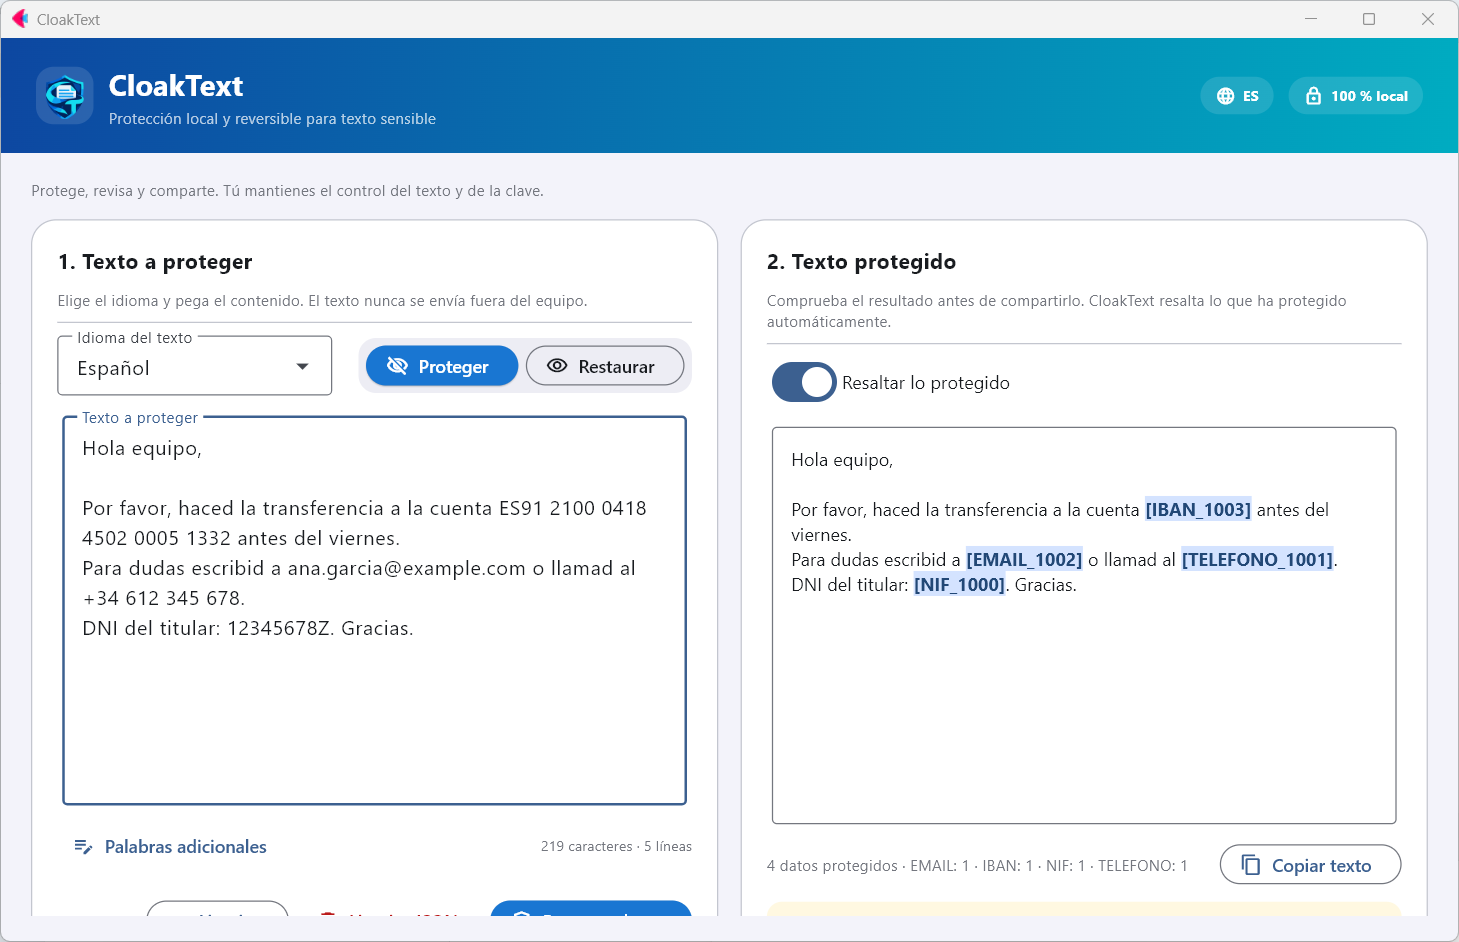
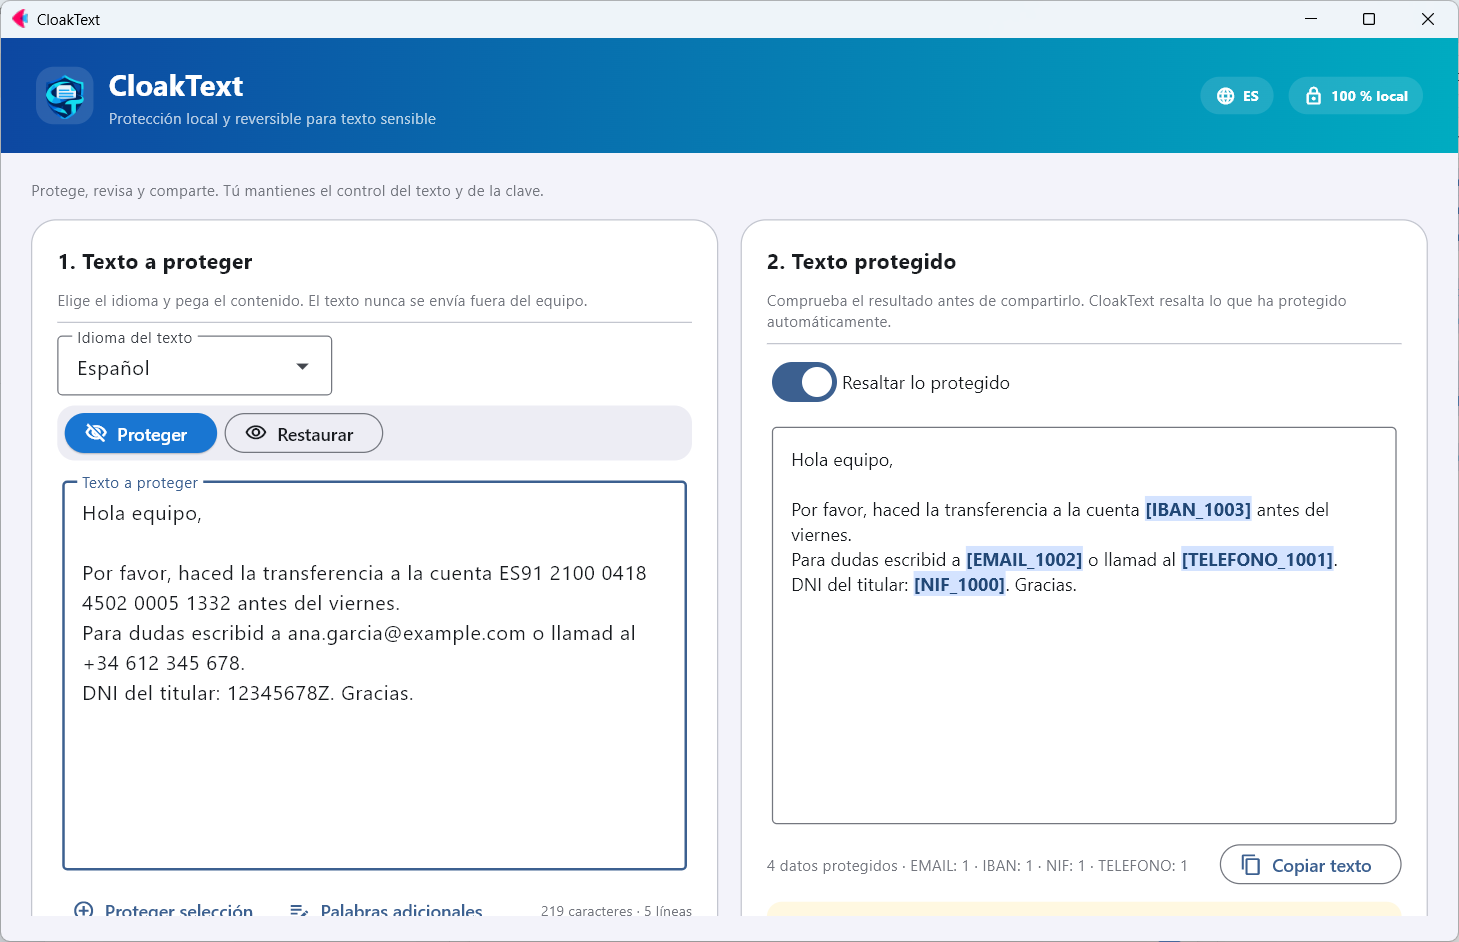
fix(ui): wrap rows so long translations are not clipped; refresh screenshots

diff --git a/main.py b/main.py
@@ -437,42 +437,51 @@ class CloakTextApp:
             tr("card.input_sub"),
             ft.Column(
                 controls=[
+                    # Rows wrap instead of clipping: translated labels (German, French...)
+                    # are longer than the English ones.
                     ft.Row(
-                        controls=[self.dd_language, ft.Container(expand=True), mode_selector],
+                        controls=[self.dd_language, mode_selector],
+                        alignment=ft.MainAxisAlignment.SPACE_BETWEEN,
                         vertical_alignment=ft.CrossAxisAlignment.CENTER,
+                        wrap=True,
+                        run_spacing=8,
                     ),
                     self.txt_input,
                     ft.Row(
                         controls=[
-                            self.btn_selection,
-                            self.btn_terms,
-                            ft.Container(expand=True),
+                            ft.Row(controls=[self.btn_selection, self.btn_terms], wrap=True, spacing=0),
                             self.txt_counter,
                         ],
+                        alignment=ft.MainAxisAlignment.SPACE_BETWEEN,
                         vertical_alignment=ft.CrossAxisAlignment.CENTER,
+                        wrap=True,
+                        run_spacing=4,
                     ),
                     self.txt_terms,
                     ft.Row(
                         controls=[
                             self.txt_active_key,
-                            ft.Container(expand=True),
-                            self.btn_use_default,
-                            self.btn_load_key_file,
+                            ft.Row(controls=[self.btn_use_default, self.btn_load_key_file], wrap=True),
                         ],
-                        alignment=ft.MainAxisAlignment.END,
+                        alignment=ft.MainAxisAlignment.SPACE_BETWEEN,
                         vertical_alignment=ft.CrossAxisAlignment.CENTER,
-                        visible=True,
+                        wrap=True,
+                        run_spacing=8,
                     ),
                     self.progress_bar,
                     ft.Row(
                         controls=[
                             self.txt_process_status,
-                            ft.Container(expand=True),
-                            self.btn_clear_text,
-                            self.btn_clear_json,
-                            self.btn_run,
+                            ft.Row(
+                                controls=[self.btn_clear_text, self.btn_clear_json, self.btn_run],
+                                wrap=True,
+                                alignment=ft.MainAxisAlignment.END,
+                            ),
                         ],
+                        alignment=ft.MainAxisAlignment.SPACE_BETWEEN,
                         vertical_alignment=ft.CrossAxisAlignment.CENTER,
+                        wrap=True,
+                        run_spacing=8,
                     ),
                     ft.Divider(height=1),
                     self.model_status,
@@ -492,17 +501,19 @@ class CloakTextApp:
                     self.txt_result,
                     self.highlight_view,
                     ft.Row(
-                        controls=[
-                            self.txt_summary,
-                            ft.Container(expand=True),
-                            self.btn_copy_result,
-                        ],
+                        controls=[self.txt_summary, self.btn_copy_result],
+                        alignment=ft.MainAxisAlignment.SPACE_BETWEEN,
                         vertical_alignment=ft.CrossAxisAlignment.CENTER,
+                        wrap=True,
+                        run_spacing=8,
                     ),
                     self.key_notice,
                     ft.Row(
-                        controls=[self.key_menu, ft.Container(expand=True), self.btn_export_key],
+                        controls=[self.key_menu, self.btn_export_key],
+                        alignment=ft.MainAxisAlignment.SPACE_BETWEEN,
                         vertical_alignment=ft.CrossAxisAlignment.CENTER,
+                        wrap=True,
+                        run_spacing=8,
                     ),
                 ],
                 horizontal_alignment=ft.CrossAxisAlignment.STRETCH,
